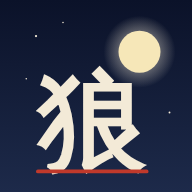
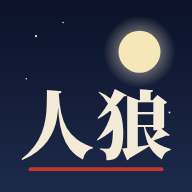
アイコンの字を「狼」から「人狼」に、明朝体で描く
「アイコンに 人狼 と書いてほしい」と言われた。
取り込んだときのアイコンは「狼」1 字だけだった。しかも作業環境に明朝体が無いため、
icon.svg で明朝体を指定していても、PNG はゴシック体で描かれていた (タイトル画面の「人狼」は明朝体)。

- icon.svg: 字を「人狼」の 2 字に。下の赤い線も 2 字の幅に合わせた
- make-icon.js: ICON_FONT_CSS に @fontsource の CSS を渡すと、アイコンの字が入っている
  部分だけを埋め込んで、その書体で描く (Noto Serif JP 900 で描いた)
- icon-180 / 192 / 512.png を描き直した

Claude-Session: https://claude.ai/code/session_018Byozv7sevyohbCt5tUJEq

Changed region(s): [[0.0938, 0.3438, 0.9062, 0.9062]]

diff --git a/make-icon.js b/make-icon.js
@@ -7,6 +7,11 @@
  * iOS は apple-touch-icon に SVG を使えない (CLAUDE.md の落とし穴)。
  * 角は iOS が丸めるので、PNG は角を丸めず四角いまま塗りつぶす (透けた角は黒く出る)。
  * icon.svg を描き替えたら、これをもう一度流す。
+ *
+ * 字の書体: この作業環境には明朝体が無く、指定しても ゴシック体で描かれる (人狼のアイコンで踏んだ)。
+ * ICON_FONT_CSS に @fontsource の CSS (例: .../@fontsource/noto-serif-jp/900.css) を渡すと、
+ * icon.svg の字が入っている部分だけを埋め込んで、その書体で描く。
+ *   ICON_FONT_CSS=/path/to/900.css node make-icon.js icon-180.png:180
  */
 const fs = require('node:fs');
 const path = require('node:path');
@@ -15,13 +20,14 @@ const path = require('node:path');
   const { chromium } = require('playwright');
   const svg = fs.readFileSync(path.join(__dirname, 'icon.svg'), 'utf8')
     .replace(/(<rect\b[^>]*?)\s+rx="[^"]*"/, '$1');   // いちばん外の地だけ角を四角に
+  const fontCss = process.env.ICON_FONT_CSS ? embedFont(process.env.ICON_FONT_CSS, svg) : '';
   const browser = await chromium.launch();
   const jobs = process.argv.slice(2).map((a) => { const [name, size] = a.split(':'); return { name, size: Number(size) || 180 }; });
   if (!jobs.length) jobs.push({ name: 'apple-touch-icon.png', size: 180 });
   for (const { name, size } of jobs) {
     const page = await browser.newPage({ viewport: { width: size, height: size }, deviceScaleFactor: 1 });
-    await page.setContent(`<html><body style="margin:0">${svg.replace('<svg ', `<svg style="width:${size}px;height:${size}px;display:block" `)}</body></html>`);
-    await page.evaluate(() => document.fonts.ready);
+    await page.setContent(`<html><head><style>${fontCss}</style></head><body style="margin:0">${svg.replace('<svg ', `<svg style="width:${size}px;height:${size}px;display:block" `)}</body></html>`);
+    await page.evaluate(async () => { await document.fonts.ready; await Promise.all([...document.fonts].map((f) => f.load().catch(() => {}))); });
     const out = path.join(__dirname, name);
     await page.screenshot({ path: out, omitBackground: false });
     await page.close();
@@ -29,3 +35,28 @@ const path = require('node:path');
   }
   await browser.close();
 })();
+
+/** @font-face の中から、svg の字が入っている部分 (unicode-range) だけを data: で埋め込んだ CSS を返す。 */
+function embedFont(cssPath, svg) {
+  const css = fs.readFileSync(cssPath, 'utf8');
+  const text = svg.replace(/<[^>]*>/g, '');
+  const codes = [...new Set([...text].map((ch) => ch.codePointAt(0)))];
+  const covers = (range) => range.split(',').some((r) => {
+    const m = r.trim().match(/^U\+([0-9A-F]+)(?:-([0-9A-F]+))?$/i);
+    if (!m) return false;
+    const a = parseInt(m[1], 16), b = m[2] ? parseInt(m[2], 16) : a;
+    return codes.some((c) => c >= a && c <= b);
+  });
+  const out = [];
+  for (const block of css.match(/@font-face\s*{[^}]*}/g) || []) {
+    const range = (block.match(/unicode-range:\s*([^;]+);/) || [])[1];
+    if (range && !covers(range)) continue;
+    const url = (block.match(/url\(([^)]+\.woff2)\)/) || [])[1];
+    if (!url) continue;
+    const file = path.resolve(path.dirname(cssPath), url.replace(/^['"]|['"]$/g, ''));
+    const data = fs.readFileSync(file).toString('base64');
+    out.push(block.replace(/src:[^;]+;/, `src: url(data:font/woff2;base64,${data}) format('woff2');`));
+  }
+  console.log(`書体: ${out.length} 個の部分を埋め込んだ (${path.basename(cssPath)})`);
+  return out.join('\n');
+}

diff --git a/CLAUDE.md b/CLAUDE.md
@@ -10,7 +10,9 @@
 - 画面とロジックは `app.js` にまとめて入っている (`core.js` はまだ無い)
 - 記録は `localStorage`。アーティファクトで遊んだ記録は引き継がれない
 - アーティファクトは `manifest.json`・`icon-180.png`・`icon-192.png`・`sw.js` を読み込むのに、中には入っていなかった。
-  取り込むときに作った: アイコンは `icon.svg` から `node make-icon.js icon-180.png:180 icon-192.png:192 icon-512.png:512`、
+  取り込むときに作った: アイコンは `icon.svg` (夜空・月・明朝体の「人狼」) から
+  `ICON_FONT_CSS=<@fontsource/noto-serif-jp の 900.css> node make-icon.js icon-180.png:180 icon-192.png:192 icon-512.png:512`
+  (作業環境に明朝体が無く、指定しないとゴシック体になる。はじめは「狼」1 字だった)、
   `sw.js` はネット優先 (落とし穴の表「直したのに古い画面が出る」)
 - アーティファクトを直してもう一度取り込むときは、取り込みのあとで次の 2 つを付け直す
   - `styles.css`: `html,body` を `height:100vh; position:relative`、`.layer`・`#app`・`#modal` を `position:absolute`
